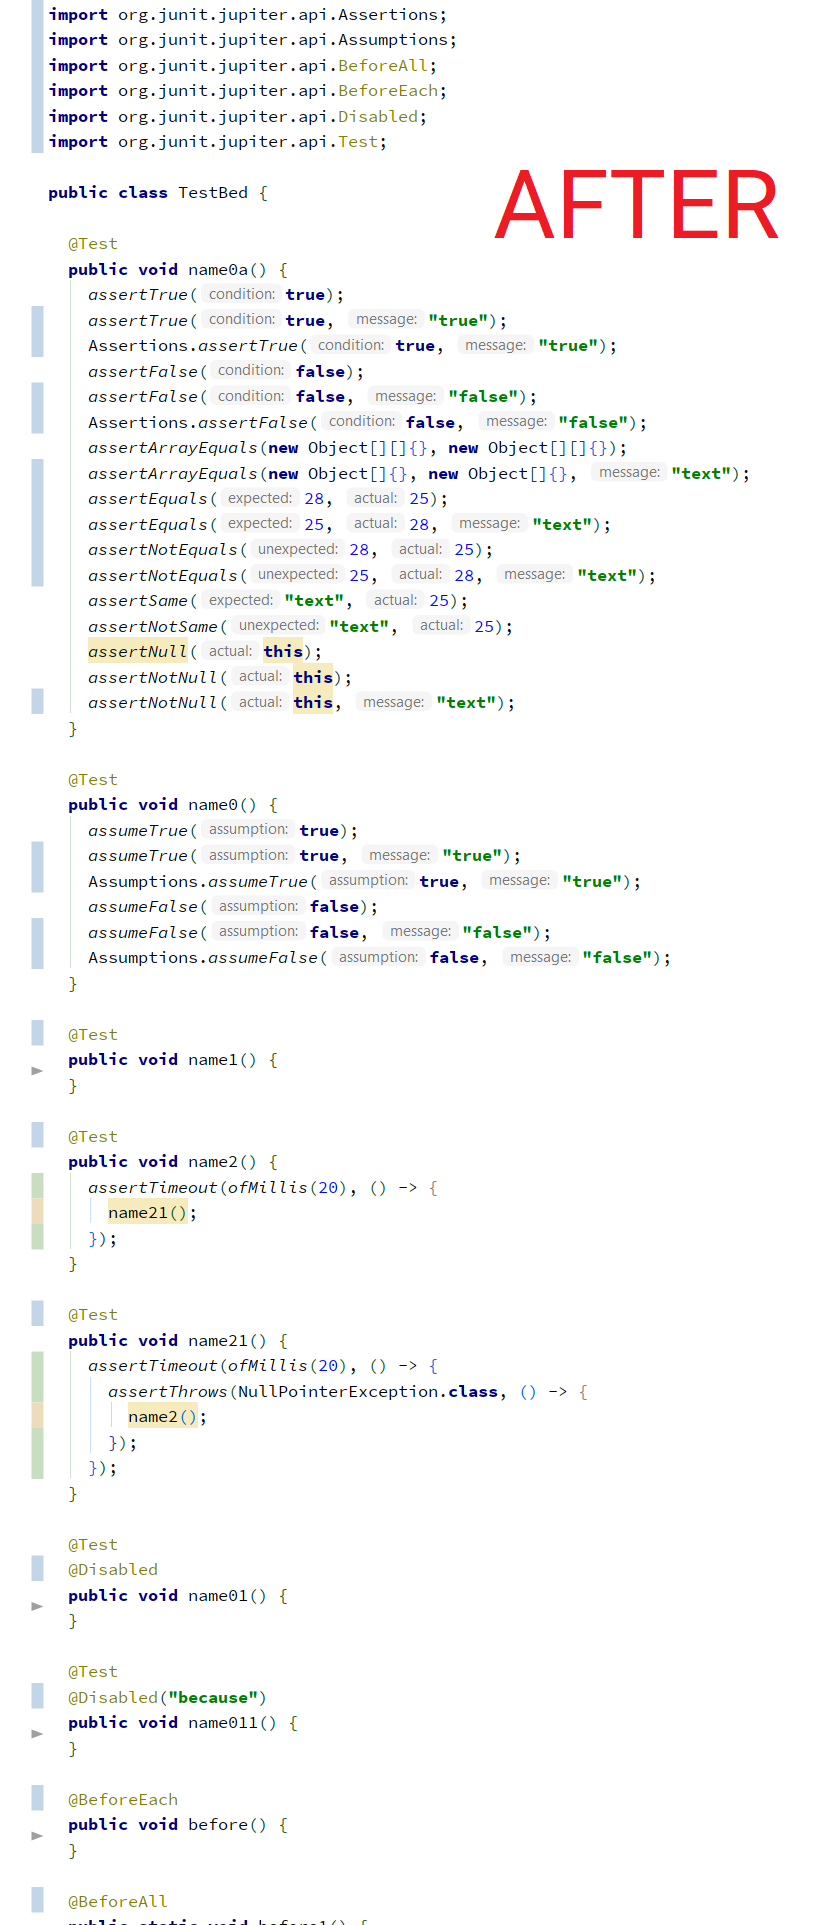
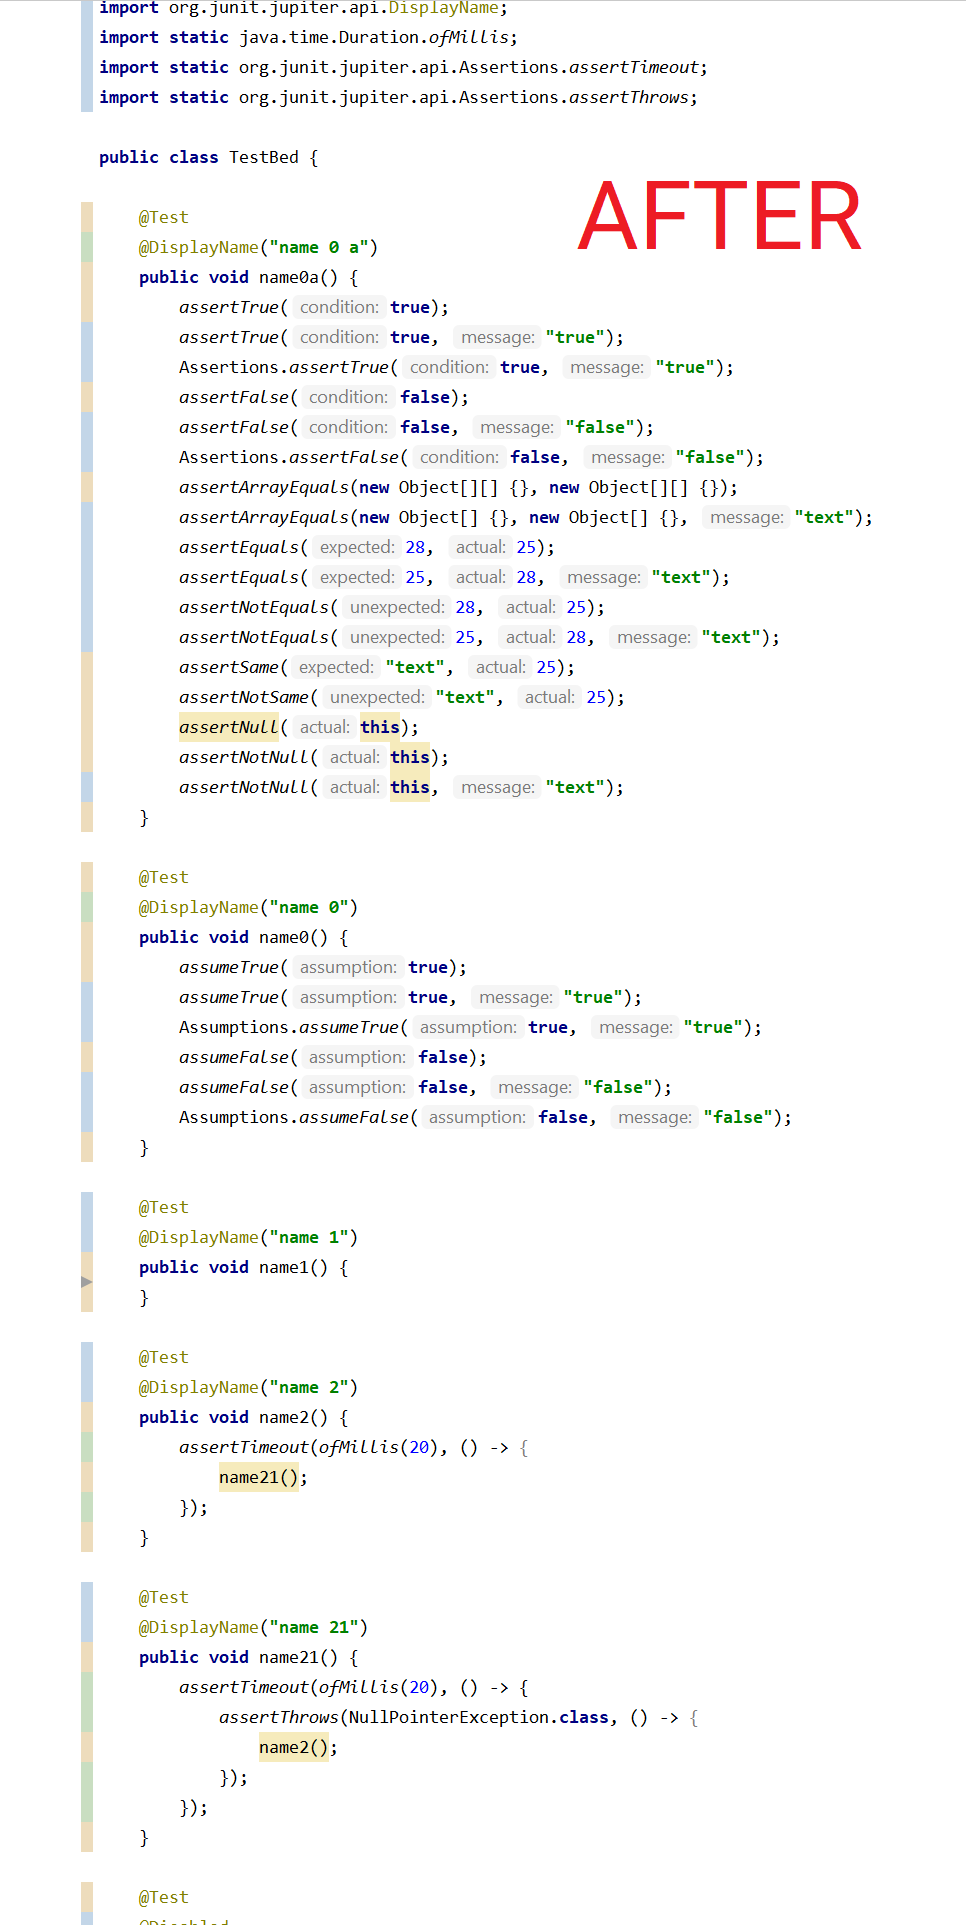
Feature: Generate @DisplayName automatically (#2)
* Added generation of @DisplayName from method's name
* Updated "after" image

diff --git a/src/main/java/de/wlsc/junit/converter/plugin/visitor/JUnit4Visitor.java b/src/main/java/de/wlsc/junit/converter/plugin/visitor/JUnit4Visitor.java
@@ -1,8 +1,12 @@
 package de.wlsc.junit.converter.plugin.visitor;
 
+import static org.apache.commons.lang3.StringUtils.join;
+import static org.apache.commons.lang3.StringUtils.splitByCharacterTypeCamelCase;
+
 import com.github.javaparser.ast.ImportDeclaration;
 import com.github.javaparser.ast.Node;
 import com.github.javaparser.ast.NodeList;
+import com.github.javaparser.ast.body.MethodDeclaration;
 import com.github.javaparser.ast.expr.AnnotationExpr;
 import com.github.javaparser.ast.expr.ClassExpr;
 import com.github.javaparser.ast.expr.Expression;
@@ -86,6 +90,28 @@ public class JUnit4Visitor extends VoidVisitorAdapter<Void> {
   public void visit(final MethodCallExpr methodCallExpr, final Void arg) {
     moveMessageArgumentIfPresent(methodCallExpr);
     super.visit(methodCallExpr, arg);
+  }
+
+  @Override
+  public void visit(final MethodDeclaration methodDeclaration, final Void arg) {
+    generateDisplayNameIfTestMethod(methodDeclaration);
+    super.visit(methodDeclaration, arg);
+  }
+
+  private void generateDisplayNameIfTestMethod(final MethodDeclaration methodDeclaration) {
+    if (methodDeclaration.getAnnotationByName("DisplayName").isPresent() ||
+        (methodDeclaration.getAnnotationByName("Test").isEmpty() &&
+            methodDeclaration.getAnnotationByName("ParameterizedTest").isEmpty())) {
+      return;
+    }
+
+    String methodName = methodDeclaration.getName().asString();
+    String displayNameText = join(splitByCharacterTypeCamelCase(methodName), ' ');
+    SingleMemberAnnotationExpr displayName = new SingleMemberAnnotationExpr(new Name("DisplayName"),
+        new StringLiteralExpr(displayNameText));
+    methodDeclaration.addAnnotation(displayName);
+    methodDeclaration.findCompilationUnit()
+        .ifPresent(unit -> unit.addImport("org.junit.jupiter.api.DisplayName"));
   }
 
   private void moveMessageArgumentIfPresent(final MethodCallExpr methodCallExpr) {
